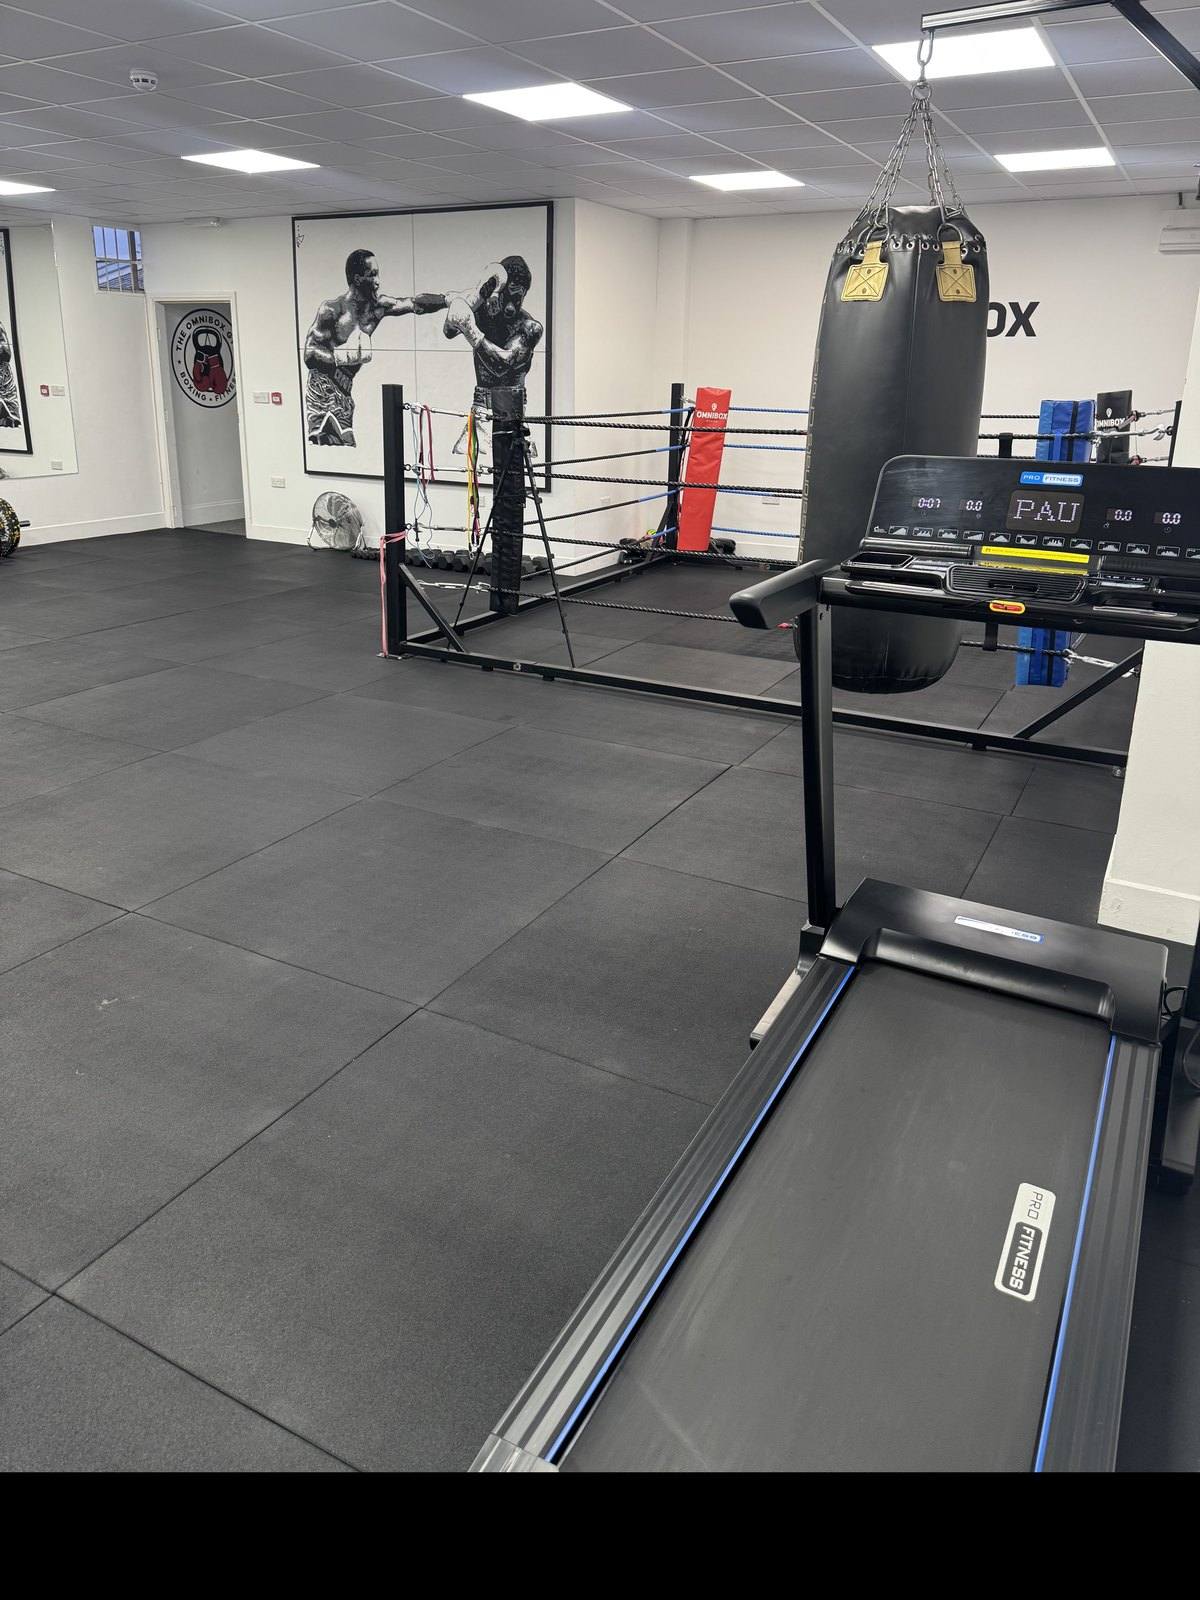
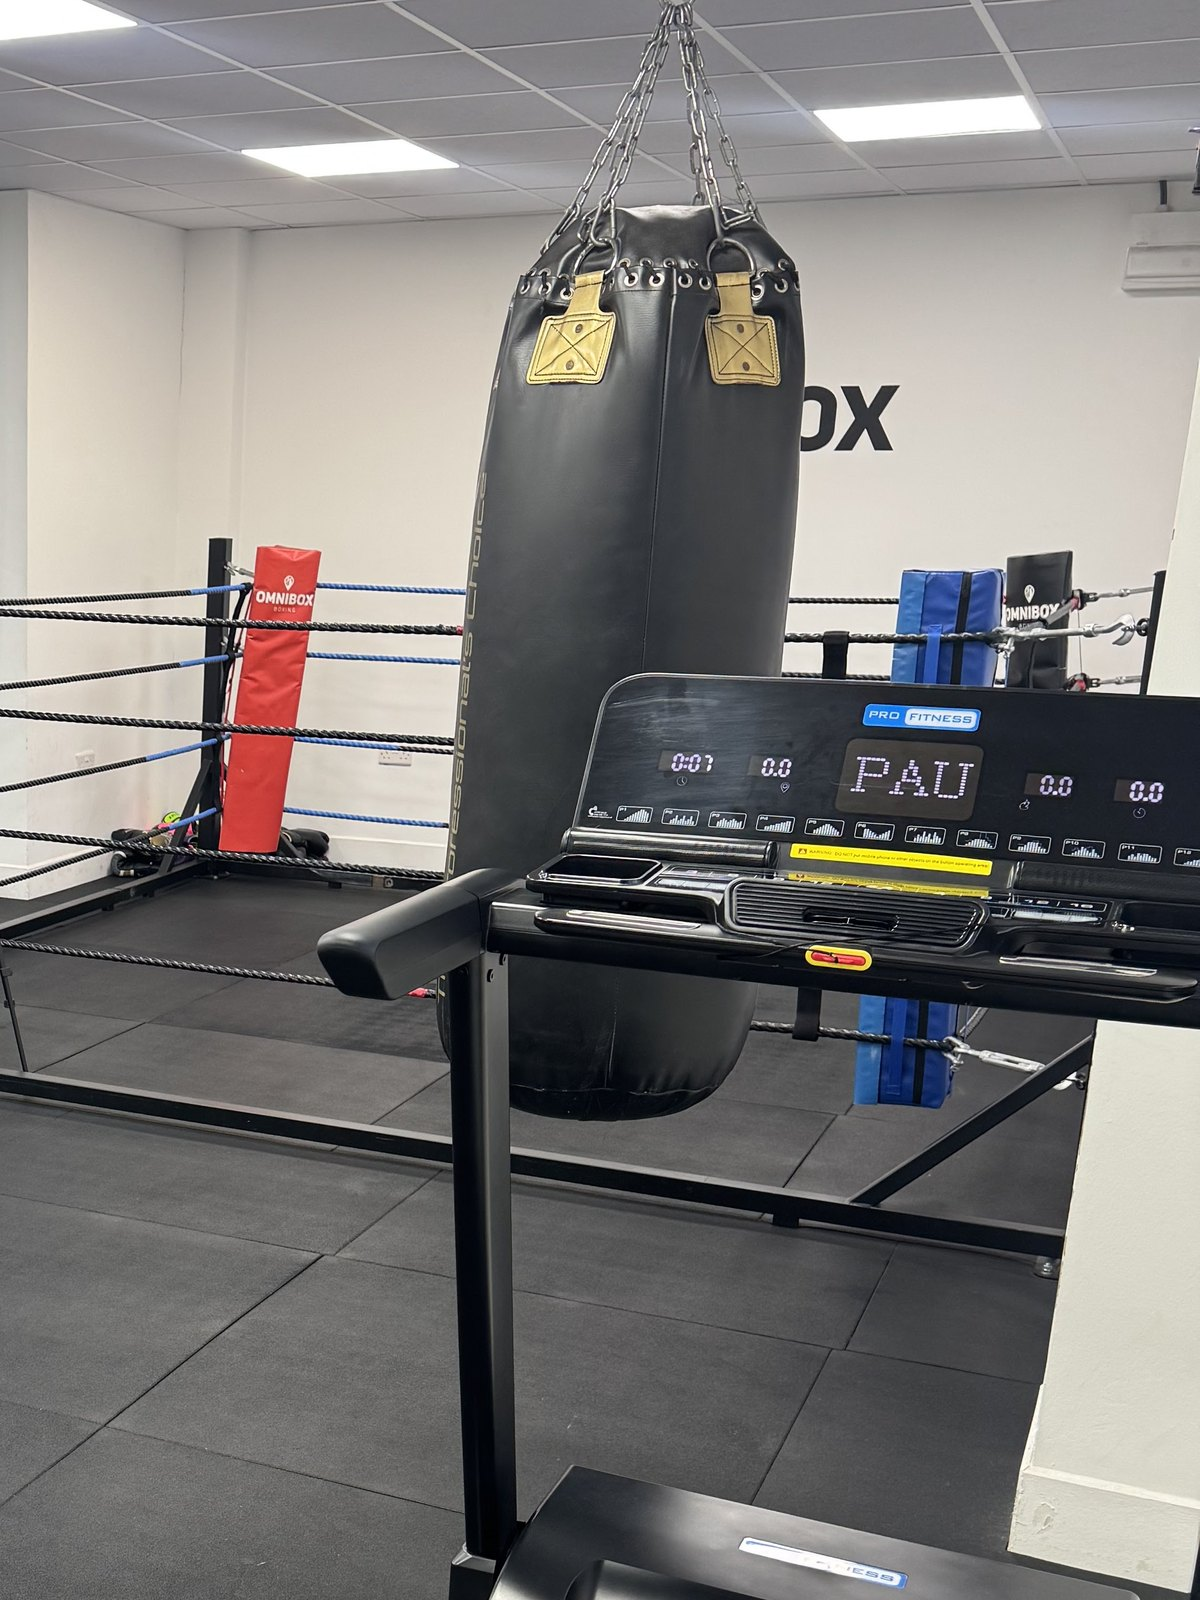
OmniBox r2: re-cropped photos from originals with no black bars, mural shown once, per-service Fresha links, kids classes, hero and visit crops

diff --git a/index.html b/index.html
@@ -53,25 +53,28 @@
 
   <section class="sessions" id="sessions" aria-labelledby="sessions-title">
     <h2 id="sessions-title" class="display sessions-title">Book a session</h2>
+    <p class="note note-phone">Prices as listed on Fresha. Tap a session to book it.</p>
     <picture class="sessions-pic">
       <source type="image/webp" srcset="img/ring-ropes.webp">
       <img src="img/ring-ropes.jpg" width="1600" height="2000" loading="lazy" alt="The boxing ring at OmniBox, with its ropes and red and blue corner pads">
     </picture>
     <div class="card">
       <ul class="fight-card">
-        <li><a href="https://www.fresha.com/en-GB/a/omnibox-birmingham-875-tyburn-road-iux5l9ce/booking?entryPoint=venue_see_all_services" target="_blank" rel="noopener"><span class="s-name">Boxing session</span><span class="s-len">30 mins</span><span class="s-price">£20</span></a></li>
-        <li><a href="https://www.fresha.com/en-GB/a/omnibox-birmingham-875-tyburn-road-iux5l9ce/booking?entryPoint=venue_see_all_services" target="_blank" rel="noopener"><span class="s-name">Boxing session</span><span class="s-len">1 hour</span><span class="s-price">£40</span></a></li>
-        <li><a href="https://www.fresha.com/en-GB/a/omnibox-birmingham-875-tyburn-road-iux5l9ce/booking?entryPoint=venue_see_all_services" target="_blank" rel="noopener"><span class="s-name">MMA session</span><span class="s-len">30 mins</span><span class="s-price">£20</span></a></li>
-        <li><a href="https://www.fresha.com/en-GB/a/omnibox-birmingham-875-tyburn-road-iux5l9ce/booking?entryPoint=venue_see_all_services" target="_blank" rel="noopener"><span class="s-name">MMA session</span><span class="s-len">1 hour</span><span class="s-price">£40</span></a></li>
-        <li><a href="https://www.fresha.com/en-GB/a/omnibox-birmingham-875-tyburn-road-iux5l9ce/booking?entryPoint=venue_see_all_services" target="_blank" rel="noopener"><span class="s-name">Grappling session</span><span class="s-len">1 hour</span><span class="s-price">£30</span></a></li>
-        <li><a href="https://www.fresha.com/en-GB/a/omnibox-birmingham-875-tyburn-road-iux5l9ce/booking?entryPoint=venue_see_all_services" target="_blank" rel="noopener"><span class="s-name">S&amp;C / circuit session</span><span class="s-len">45 mins</span><span class="s-price">£30</span></a></li>
-        <li><a href="https://www.fresha.com/en-GB/a/omnibox-birmingham-875-tyburn-road-iux5l9ce/booking?entryPoint=venue_see_all_services" target="_blank" rel="noopener"><span class="s-name">Weight session</span><span class="s-len">1 hour</span><span class="s-price">£30</span></a></li>
-        <li><a href="https://www.fresha.com/en-GB/a/omnibox-birmingham-875-tyburn-road-iux5l9ce/booking?entryPoint=venue_see_all_services" target="_blank" rel="noopener"><span class="s-name">Adults Boxing Class</span><span class="s-len">1 hour</span><span class="s-price">£10</span></a></li>
-        <li><a href="https://www.fresha.com/en-GB/a/omnibox-birmingham-875-tyburn-road-iux5l9ce/booking?entryPoint=venue_see_all_services" target="_blank" rel="noopener"><span class="s-name">Adults Grappling Class</span><span class="s-len">1 hour</span><span class="s-price">£10</span></a></li>
+        <li><a href="https://www.fresha.com/en-GB/a/omnibox-birmingham-875-tyburn-road-iux5l9ce/booking?offerItems=sv%3A25113742" target="_blank" rel="noopener"><span class="s-name">Boxing session</span><span class="s-len">30 mins</span><span class="s-price">£20</span></a></li>
+        <li><a href="https://www.fresha.com/en-GB/a/omnibox-birmingham-875-tyburn-road-iux5l9ce/booking?offerItems=sv%3A25113728" target="_blank" rel="noopener"><span class="s-name">Boxing session</span><span class="s-len">1 hour</span><span class="s-price">£40</span></a></li>
+        <li><a href="https://www.fresha.com/en-GB/a/omnibox-birmingham-875-tyburn-road-iux5l9ce/booking?offerItems=sv%3A25113806" target="_blank" rel="noopener"><span class="s-name">MMA session</span><span class="s-len">30 mins</span><span class="s-price">£20</span></a></li>
+        <li><a href="https://www.fresha.com/en-GB/a/omnibox-birmingham-875-tyburn-road-iux5l9ce/booking?offerItems=sv%3A25113791" target="_blank" rel="noopener"><span class="s-name">MMA session</span><span class="s-len">1 hour</span><span class="s-price">£40</span></a></li>
+        <li><a href="https://www.fresha.com/en-GB/a/omnibox-birmingham-875-tyburn-road-iux5l9ce/booking?offerItems=sv%3A26162399" target="_blank" rel="noopener"><span class="s-name">Grappling session</span><span class="s-len">1 hour</span><span class="s-price">£30</span></a></li>
+        <li><a href="https://www.fresha.com/en-GB/a/omnibox-birmingham-875-tyburn-road-iux5l9ce/booking?offerItems=sv%3A25113851" target="_blank" rel="noopener"><span class="s-name">S&amp;C / circuit session</span><span class="s-len">45 mins</span><span class="s-price">£30</span></a></li>
+        <li><a href="https://www.fresha.com/en-GB/a/omnibox-birmingham-875-tyburn-road-iux5l9ce/booking?offerItems=sv%3A25113819" target="_blank" rel="noopener"><span class="s-name">Weight session</span><span class="s-len">1 hour</span><span class="s-price">£30</span></a></li>
+        <li><a href="https://www.fresha.com/en-GB/a/omnibox-birmingham-875-tyburn-road-iux5l9ce/booking?offerItems=sv%3A29409403" target="_blank" rel="noopener"><span class="s-name">Adults Boxing Class</span><span class="s-len">1 hour</span><span class="s-price">£10</span></a></li>
+        <li><a href="https://www.fresha.com/en-GB/a/omnibox-birmingham-875-tyburn-road-iux5l9ce/booking?offerItems=sv%3A29409381" target="_blank" rel="noopener"><span class="s-name">Adults Grappling Class</span><span class="s-len">1 hour</span><span class="s-price">£10</span></a></li>
+        <li><a href="https://www.fresha.com/en-GB/a/omnibox-birmingham-875-tyburn-road-iux5l9ce/booking?offerItems=sv%3A29443083" target="_blank" rel="noopener"><span class="s-name">Kids Boxing Class</span><span class="s-len">1 hour</span><span class="s-price">£8</span></a></li>
+        <li><a href="https://www.fresha.com/en-GB/a/omnibox-birmingham-875-tyburn-road-iux5l9ce/booking?offerItems=sv%3A29443089" target="_blank" rel="noopener"><span class="s-name">Kids Grappling Class</span><span class="s-len">1 hour</span><span class="s-price">£8</span></a></li>
       </ul>
-      <p class="note">Prices as listed on Fresha.</p>
+      <p class="note note-wide">Prices as listed on Fresha. Tap a session to book it.</p>
       <div class="btn-row">
-        <a class="btn btn-black" href="https://www.fresha.com/en-GB/a/omnibox-birmingham-875-tyburn-road-iux5l9ce/booking?entryPoint=venue_see_all_services" target="_blank" rel="noopener">Choose a session on Fresha</a>
+        <a class="btn btn-black wide-btn" href="https://www.fresha.com/en-GB/a/omnibox-birmingham-875-tyburn-road-iux5l9ce/booking?entryPoint=venue_see_all_services" target="_blank" rel="noopener">Choose a session on Fresha</a>
         <a class="btn btn-red" href="https://www.fresha.com/en-GB/a/omnibox-birmingham-875-tyburn-road-iux5l9ce/all-offer?venue=true&amp;entryPoint=book_now_link" target="_blank" rel="noopener">Book now</a>
       </div>
     </div>
@@ -80,7 +83,7 @@
   <section class="coach" id="coaching" aria-labelledby="coach-title">
     <picture class="coach-pic">
       <source type="image/webp" srcset="img/mural-rower.webp">
-      <img src="img/mural-rower.jpg" width="1600" height="2000" loading="lazy" alt="Painted mural of two boxers trading punches, beside the ring, air bike and rowing machine">
+      <img src="img/mural-rower.jpg" width="1600" height="2000" loading="lazy" alt="An air bike and a Concept2 rower on the black matting beside the boxing ring">
     </picture>
     <div class="coach-body">
       <h2 id="coach-title" class="display">Boxing, MMA and strength under one roof</h2>
@@ -126,7 +129,7 @@
   <section class="visit" id="visit" aria-labelledby="visit-title">
     <picture class="visit-pic">
       <source type="image/webp" srcset="img/room-tall.webp">
-      <img src="img/room-tall.jpg" width="1200" height="1600" loading="lazy" alt="The OmniBox boxing ring with a red heavy bag hanging beside it">
+      <img src="img/room-tall.jpg" width="1200" height="1600" loading="lazy" alt="A heavy bag hanging beside the boxing ring, with a treadmill in front">
     </picture>
     <div class="visit-block">
       <h2 id="visit-title" class="display">875 Tyburn Road, Erdington</h2>

diff --git a/styles.css b/styles.css
@@ -264,7 +264,7 @@ a { color: inherit; }
 /* Visit */
 .visit { display: grid; background: var(--red); color: #fff; }
 .visit-pic { aspect-ratio: 16 / 10; overflow: hidden; }
-.visit-pic img { width: 100%; height: 100%; object-fit: cover; object-position: 50% 55%; }
+.visit-pic img { width: 100%; height: 100%; object-fit: cover; object-position: 50% 28%; }
 .visit-block { padding: 28px var(--pad) 32px; }
 .visit-block h2 { font-size: clamp(48px, 12vw, 104px); }
 .visit-lines { margin: 18px 0 22px; border-top: 4px solid #fff; }
@@ -314,7 +314,11 @@ a { color: inherit; }
   .card { position: relative; margin: -28px 12px 0 0; padding: 0 var(--pad) 16px; background: var(--paper); }
   .fight-card a { min-height: 44px; padding: 3px 0; }
   .note { margin: 8px 0 12px; }
+  .note-wide, .card .wide-btn { display: none; }
+  .note-phone { margin: 0; padding: 0 var(--pad) 12px; }
+  .card .btn-row { margin-top: 12px; }
 }
+@media (min-width: 600px) { .note-phone { display: none; } }
 
 /* Very small phones: tighter rhythm */
 @media (max-width: 359px) {
@@ -322,7 +326,7 @@ a { color: inherit; }
   .site-header { padding: 6px var(--pad); }
   .brand img { width: 44px; height: 44px; }
   .wordmark { font-size: 26px; }
-  .hero-pic { flex-basis: 26svh; }
+  .hero-pic { flex-basis: 48svh; }
   .hero-block { margin-right: 12px; padding: 18px var(--pad) 18px; }
   .hero h1 { font-size: 44px; }
   .hero-sub { margin: 10px 0 14px; font-size: 16px; }
@@ -338,11 +342,12 @@ a { color: inherit; }
   .s-name { font-size: 16px; }
   .s-price { font-size: 24px; }
   .note { margin: 6px 0 10px; }
-  .coach-pic { aspect-ratio: 16 / 9; }
+  .coach-pic { aspect-ratio: 2 / 1; }
   .coach-body { padding-top: 20px; }
   .coach-body h2 { font-size: 38px; }
   .coach-body > p { margin-top: 12px; font-size: 16px; }
   .rack-pic { margin-top: 8px; }
+  .rack-pic img { aspect-ratio: 2 / 1; }
   .coaches { padding: 14px var(--pad) 16px; }
   .coaches-title { font-size: 28px; }
   .c-name { font-size: 24px; }
@@ -395,7 +400,8 @@ a { color: inherit; }
     min-height: 620px;
   }
   .hero-pic { position: absolute; inset: 0; }
-  .hero-pic img { object-position: 50% 50%; }
+  .hero-pic { overflow: hidden; }
+  .hero-pic img { top: -32%; height: 132%; object-position: 50% 100%; }
   .hero-block {
     width: min(760px, 62%);
     margin: 0;
